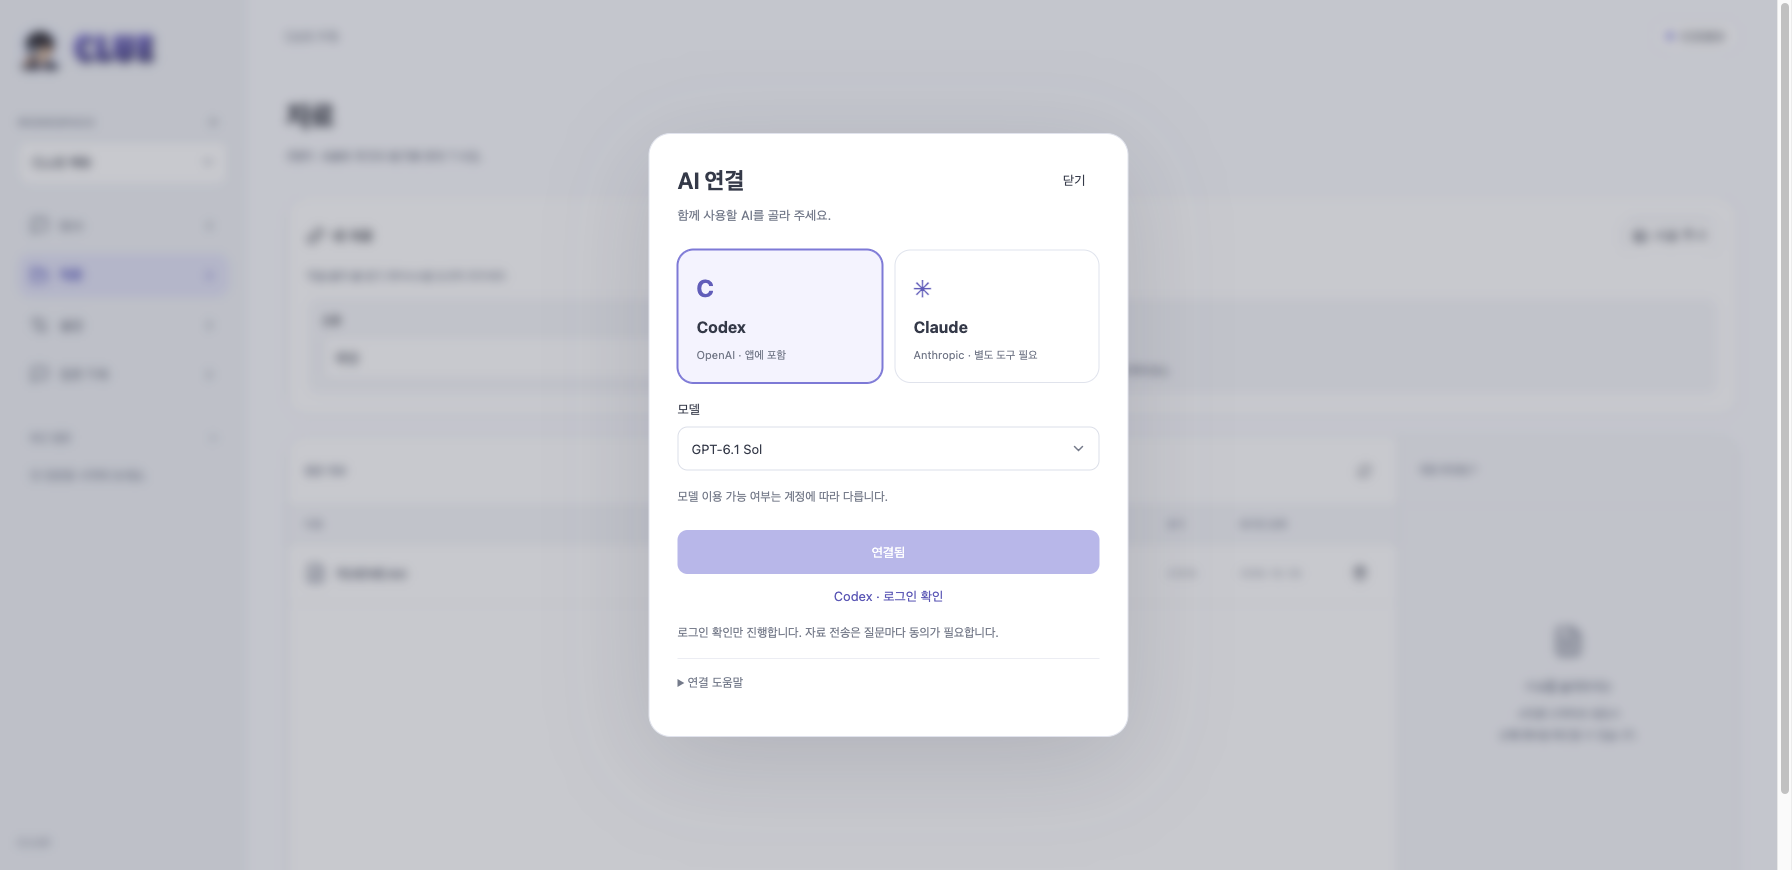
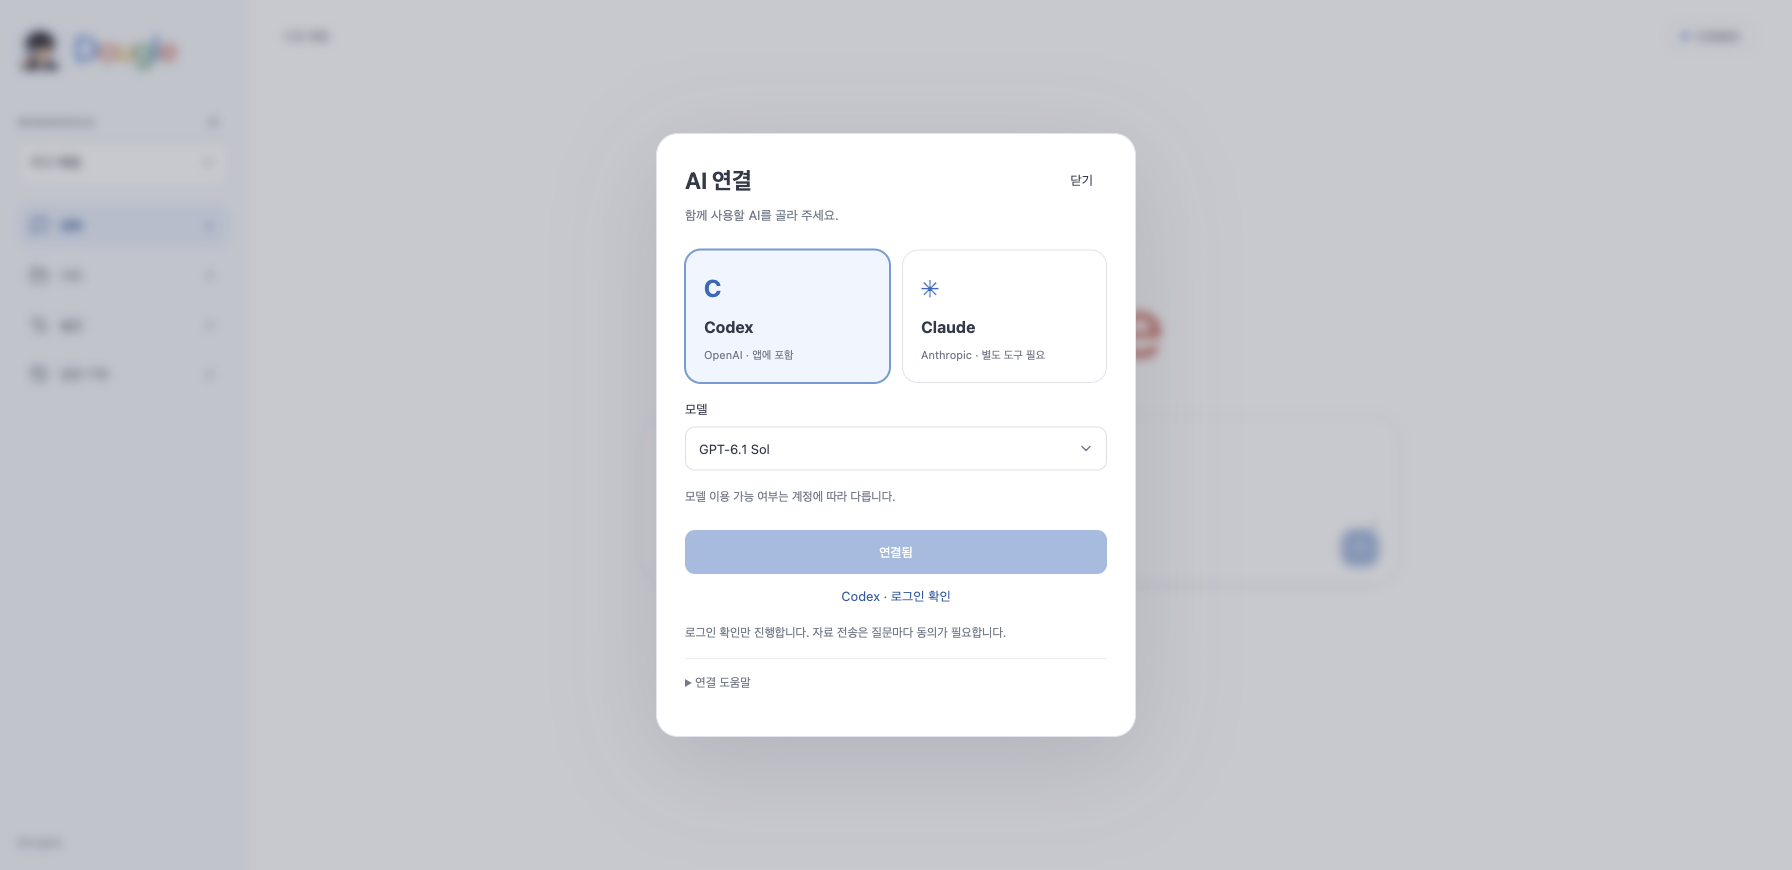
Document and verify Dougle desktop branding and installation

diff --git a/desktop/src-tauri/examples/runtime_smoke.rs b/desktop/src-tauri/examples/runtime_smoke.rs
@@ -60,11 +60,14 @@ window.addEventListener('DOMContentLoaded', () => {
       phase = 'AI connection button';
       if (document.querySelector('.search-form')) throw Error('Search form should not be in the material tab');
       [...document.querySelectorAll('#root button')].find(button => button.textContent.trim() === '대화').click();
+      phase = 'chat view';
       await until(() => document.querySelector('#chat-question'));
       if (!document.querySelector('#chat-question').disabled) throw Error('Unauthenticated chat must be disabled');
+      phase = 'provider readiness';
       await until(() => !document.querySelector('.provider-trigger').disabled);
       localStorage.setItem('forge.ai.provider', 'CLAUDE');
       document.querySelector('.provider-trigger').click();
+      phase = 'connection dialog';
       await until(() => {
         const opened = document.querySelector('dialog[aria-label="AI 연결"][open] select');
         return opened && opened.getBoundingClientRect().height > 0;
@@ -76,6 +79,7 @@ window.addEventListener('DOMContentLoaded', () => {
       const appearance = getComputedStyle(model).getPropertyValue('appearance') || getComputedStyle(model).getPropertyValue('-webkit-appearance');
       if (model.getBoundingClientRect().height < 40 || appearance !== 'none') throw Error('Native select appearance mismatch');
       const connect = () => [...dialog.querySelectorAll('button')].find(button => button.textContent.trim() === '연결');
+      phase = 'Claude unavailable in isolated PATH';
       connect().click();
       await until(() => dialog.textContent.includes('실행 도구를 찾지 못했습니다.') || dialog.querySelector('[role="alert"]'));
       if (dialog.querySelector('[role="alert"]')) throw Error('AI connection UI mismatch');
@@ -140,7 +144,12 @@ window.addEventListener('DOMContentLoaded', () => {
       });
       if (saved.restartRequired || saved.saved.revision !== settings.saved.revision + 1) throw Error('CLI settings mismatch');
       await api('/workspaces', 'POST', { name: 'NATIVE_RUNTIME_QA_PASSED' });
-    } catch {
+    } catch (error) {
+      const opened = document.querySelector('dialog[aria-label="AI 연결"]');
+      const select = opened?.querySelector('select');
+      const diagnostic = `dialog=${!!opened},open=${!!opened?.open},height=${select?.getBoundingClientRect().height ?? -1},loading=${document.body.innerText.includes('AI 연결을 여는 중')}`;
+      await fetch('/api/workspaces', { method: 'POST', headers: { ...headers, 'Content-Type': 'application/json' },
+        body: JSON.stringify({ name: ('QA ' + diagnostic + ' ' + String(error)).slice(0, 100) }) }).catch(() => {});
       await fetch('/api/workspaces', { method: 'POST', headers: { ...headers, 'Content-Type': 'application/json' },
         body: JSON.stringify({ name: 'NATIVE_RUNTIME_QA_FAILED: ' + phase.replaceAll('/', '-').slice(0, 80) }) }).catch(() => {});
     }

diff --git a/docs/release-0.1.13-report.md b/docs/release-0.1.13-report.md
@@ -6,11 +6,15 @@ CLUE를 Dougle · 더글로 변경했습니다. 둥근 다색 글자 로고, 화
 
 ## 검증 상태
 
-- 화면 전체 회귀 252건 통과. 후속 로고 접근성·입력 안내·불필요한 질문창 문구 제거 검사 12건도 통과했습니다(중복 합산하지 않음).
+- 최종 화면 전체 회귀 **254건** 통과. 로고 접근성·입력 안내·불필요한 문구 제거·대화/기록 아이콘 구분·연결 전 전송 잠금·실제 전송 승인 절차를 확인했습니다. 아래 후속 개별 검사 수는 중복 합산하지 않습니다.
 - ‘내 자료 기반 · 새 질문’을 제거하고 첨부 버튼은 왼쪽, 전송 버튼은 오른쪽에 유지했습니다.
-- 하단 ‘자료 전송은 동의 후에만 진행됩니다’ 문구도 제거했습니다. 실제 전송 동의 동작을 포함한 ChatPanel 회귀 12건 통과. 이 후속 문구 변경은 설치본 재빌드에 포함해야 합니다.
+- 하단 ‘자료 전송은 동의 후에만 진행됩니다’ 문구도 제거했습니다. 실제 전송 동의 동작을 포함한 ChatPanel 회귀 12건 통과. 최종 설치본 JAR에도 포함했습니다.
 - 사이드바의 ‘최근 질문’ 제목·빈 목록 안내를 없앴습니다. 질문 기록에는 대화 말풍선과 다른 시계 아이콘을 사용합니다. 후속 대화/로고 회귀 13건 통과(중복 합산하지 않음).
 - Dock용 다색 Dougle 워드마크 아이콘을 생성하고 1024px 원본을 시각 확인했습니다. 사이드바 캐릭터는 유지합니다.
-- 양 CPU 빌드·설치본 검증은 진행 중이며, 현재 설치 앱에는 아직 Dougle 디자인이 반영되지 않았습니다.
+- Rust **19건**, Intel/ARM 네이티브 빌드를 통과했습니다. 전체 목록 감사는 353개 파일·104개 테스트/fixture 파일이며 실행 커버리지 수치는 아닙니다. 설치본 최종 검증·공개 배포는 진행 중입니다.
+- 브라우저에서 Workspace 생성·가상 Codex 로그인·질문 기록 카드와 설정 이동을 확인했습니다. 불필요 문구 없음·메뉴 아이콘 구분·가로 넘침 없음도 확인하고 소개 화면 3장을 갱신했습니다. 가상 AI 생성 호출은 0회입니다.
+- 양 CPU DMG 정적 검사·서명된 업데이트 압축/버전/JAR 일치 검사가 통과했습니다. Intel 최종 DMG의 실제 React/WebKit Workspace·AI 버튼·한글 오류·자료/검색·승인/설정 검사가 통과했습니다.
+- 실행 예제를 직접 호출한 첫 3회는 시스템 PATH의 Claude를 감지해 ‘도구 없음’을 기다리다가 실패했습니다. 진단 단계를 세분화했고, 기존 표준 `verify-macos-package.sh`의 격리 PATH로 최종 통과했습니다. 앱·인증·검사 시간 제한을 완화하지 않았습니다.
+- 이 Mac은 기존 앱/닫힌 DB를 백업한 뒤 최종 Intel DMG로 재설치했습니다. 버전 0.1.13·표시 이름 Dougle·ICNS 일치·macOS가 반환한 새 아이콘·화면 HTTP 200·미인증 API 403을 확인했습니다. 사용자 자료 내용/인증은 조회하지 않았고 앱 ID·저장 위치는 보존했습니다. 공개 자산 업로드·피드 승격은 진행 중입니다.
 
 실제 외부 AI 호출·ARM 실기기·Apple 공증은 이번 범위에 포함하지 않습니다.

diff --git a/docs/architecture.md b/docs/architecture.md
@@ -1,5 +1,7 @@
 # 아키텍처
 
+0.1.13의 사용자 브랜드는 **Dougle · 더글**입니다. `Wordmark`를 대화/사이드바에서 공유하고, 자료·질문·승인·인증 모델은 변경하지 않습니다. [화면·아이콘 설계](dougle-brand.md).
+
 0.1.12는 `App → 설정 → SourceSettings / Workspace 관리`로 설정을 분리합니다. 자료 추가는 파일·폴더·웹 링크·GitHub 한 곳, 기록은 `QuestionGrid → 선택한 bundle ID → ChatPanel`입니다. 목록은 요약 GET만 사용하고 AI/답변 본문을 자동 조회하지 않습니다. 폴더는 `folderPicker.ts → Tauri select_source_folder → 폴더 전용 네이티브 선택기`로 연결하며 현재 앱 origin·main 창에만 명령을 허용합니다. 서버 등록/동기화 모두 실제 폴더를 검증합니다. [코드 대조](folder-settings.md).
 
 질문 첨부는 별도 `attachment` 모듈(Reader/Store 포트, ImageIO·Tika/JDBC 어댑터)입니다. 전역 수집/색인과 분리하며 기존 불변 근거·일회 승인·답변 작업에 연결합니다. 이미지는 Codex `localImage` 입력입니다. [구조·DB v22·제약](question-attachments.md).

diff --git a/HANDOFF.md b/HANDOFF.md
@@ -2,7 +2,7 @@
 
 ## 진행 중: Dougle 0.1.13
 
-사용자 최종 이름 **Dougle · 더글**, 다색 둥근 로고와 화이트/블루 화면, 입력 안내 **더글한테 물어보기**를 반영합니다. 0.1.12 로컬 재설치는 완료했지만 공개 릴리스는 초안이며, 0.1.13 검증 뒤 새 공개 버전으로 배포합니다. [디자인](docs/dougle-brand.md), [검증](docs/release-0.1.13-report.md).
+사용자 최종 이름 **Dougle · 더글**, 다색 둥근 로고/Dock 아이콘·화이트/블루 화면·간결한 질문창을 반영했습니다. UI 254·Rust 19, 브라우저·양 CPU 서명/정적·Intel 설치 UI 검사 통과. 이 Mac도 백업 후 0.1.13으로 재설치했고 자료/인증을 보존했습니다. 공개 자산 업로드·피드 승격을 마무리해야 합니다. 0.1.12는 대체된 초안입니다. [디자인](docs/dougle-brand.md), [검증](docs/release-0.1.13-report.md).
 
 ## 진행 중: CLUE 0.1.12
 

diff --git a/docs/release-0.1.12-report.md b/docs/release-0.1.12-report.md
@@ -1,5 +1,7 @@
 # CLUE 0.1.12 — 폴더 연결·설정·브랜드
 
+최종 상태: 양 CPU 패키지·서명 검증과 Intel 실제 UI 검사, 이 Mac의 백업 후 재설치를 완료했습니다. 공개 릴리스는 초안으로 남겼고 사용자 후속 이름 변경을 담은 [Dougle 0.1.13](release-0.1.13-report.md)으로 대체합니다. 아래 ‘진행 중’은 당시 기록입니다.
+
 ## 변경
 
 - 자료 추가를 파일·폴더·웹 링크·GitHub 선택 하나로 통합하고 새 가상 폴더·별도 파일 추가 버튼을 제거했습니다. 기존 파일·폴더/API는 보존합니다.

diff --git a/README.md b/README.md
@@ -1,6 +1,6 @@
 # Dougle · 더글
 
-<img src="desktop/src-tauri/icons/128x128.png" alt="꼬마 탐정 아이콘" width="80" />
+<img src="desktop/src-tauri/icons/128x128.png" alt="Dougle 앱 아이콘" width="80" />
 
 **물어보면 함께 풀어주는 똑똑한 동료.**
 
